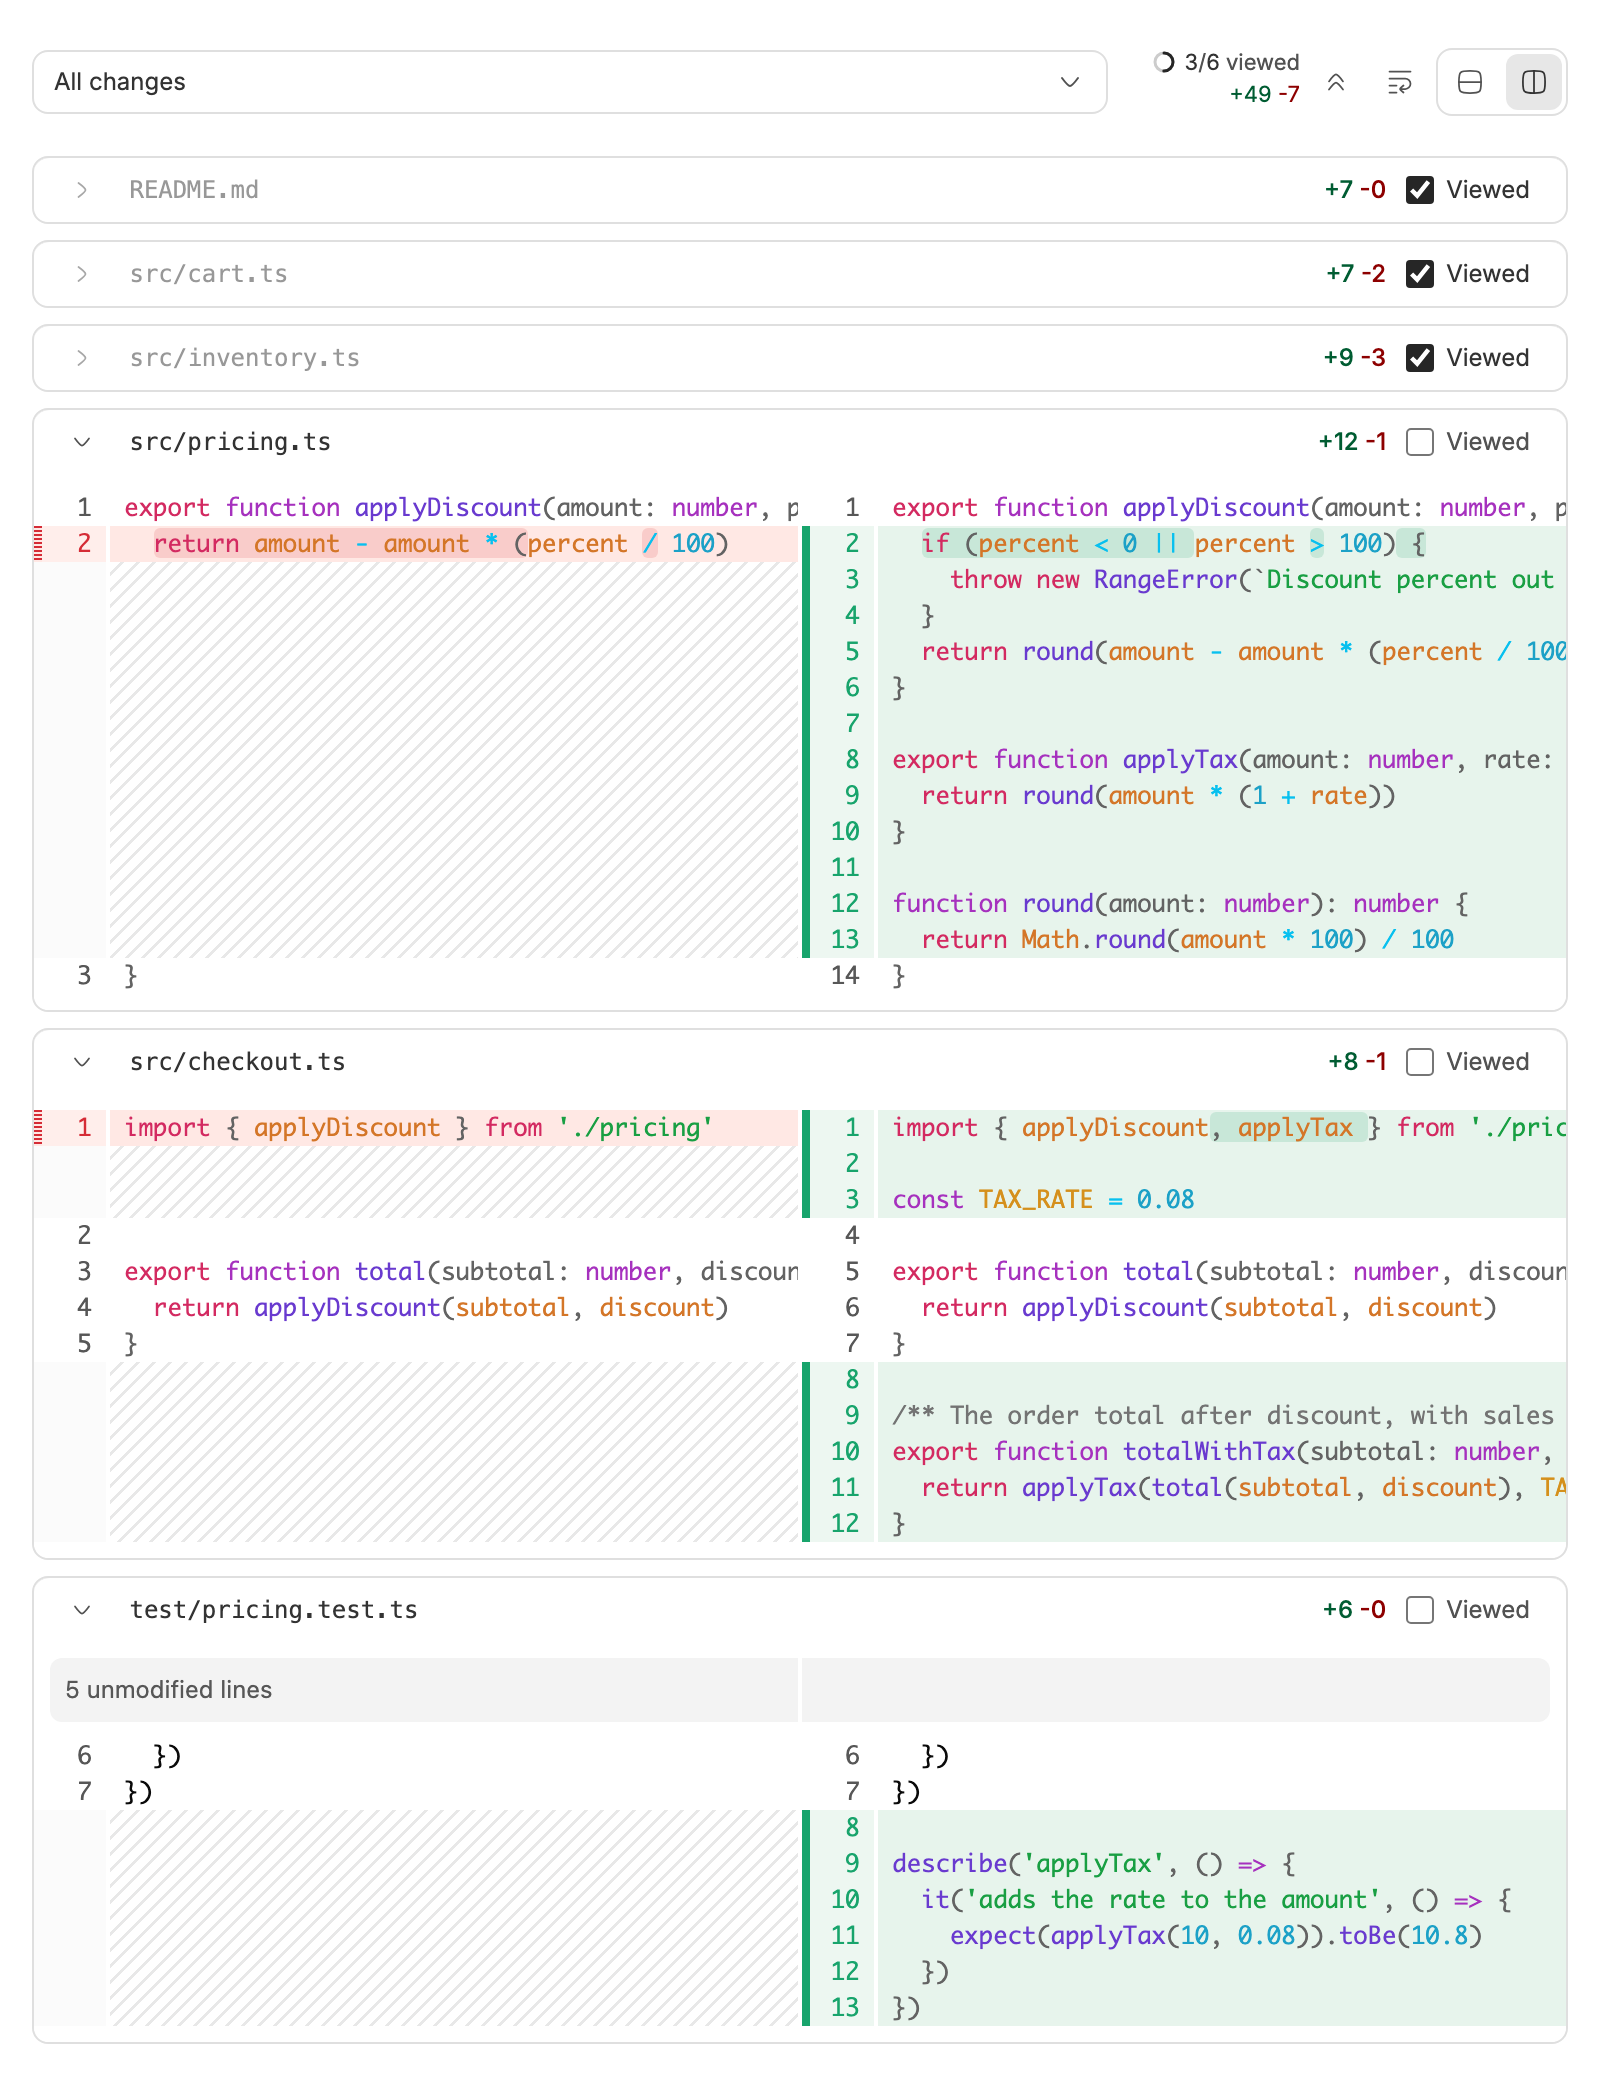
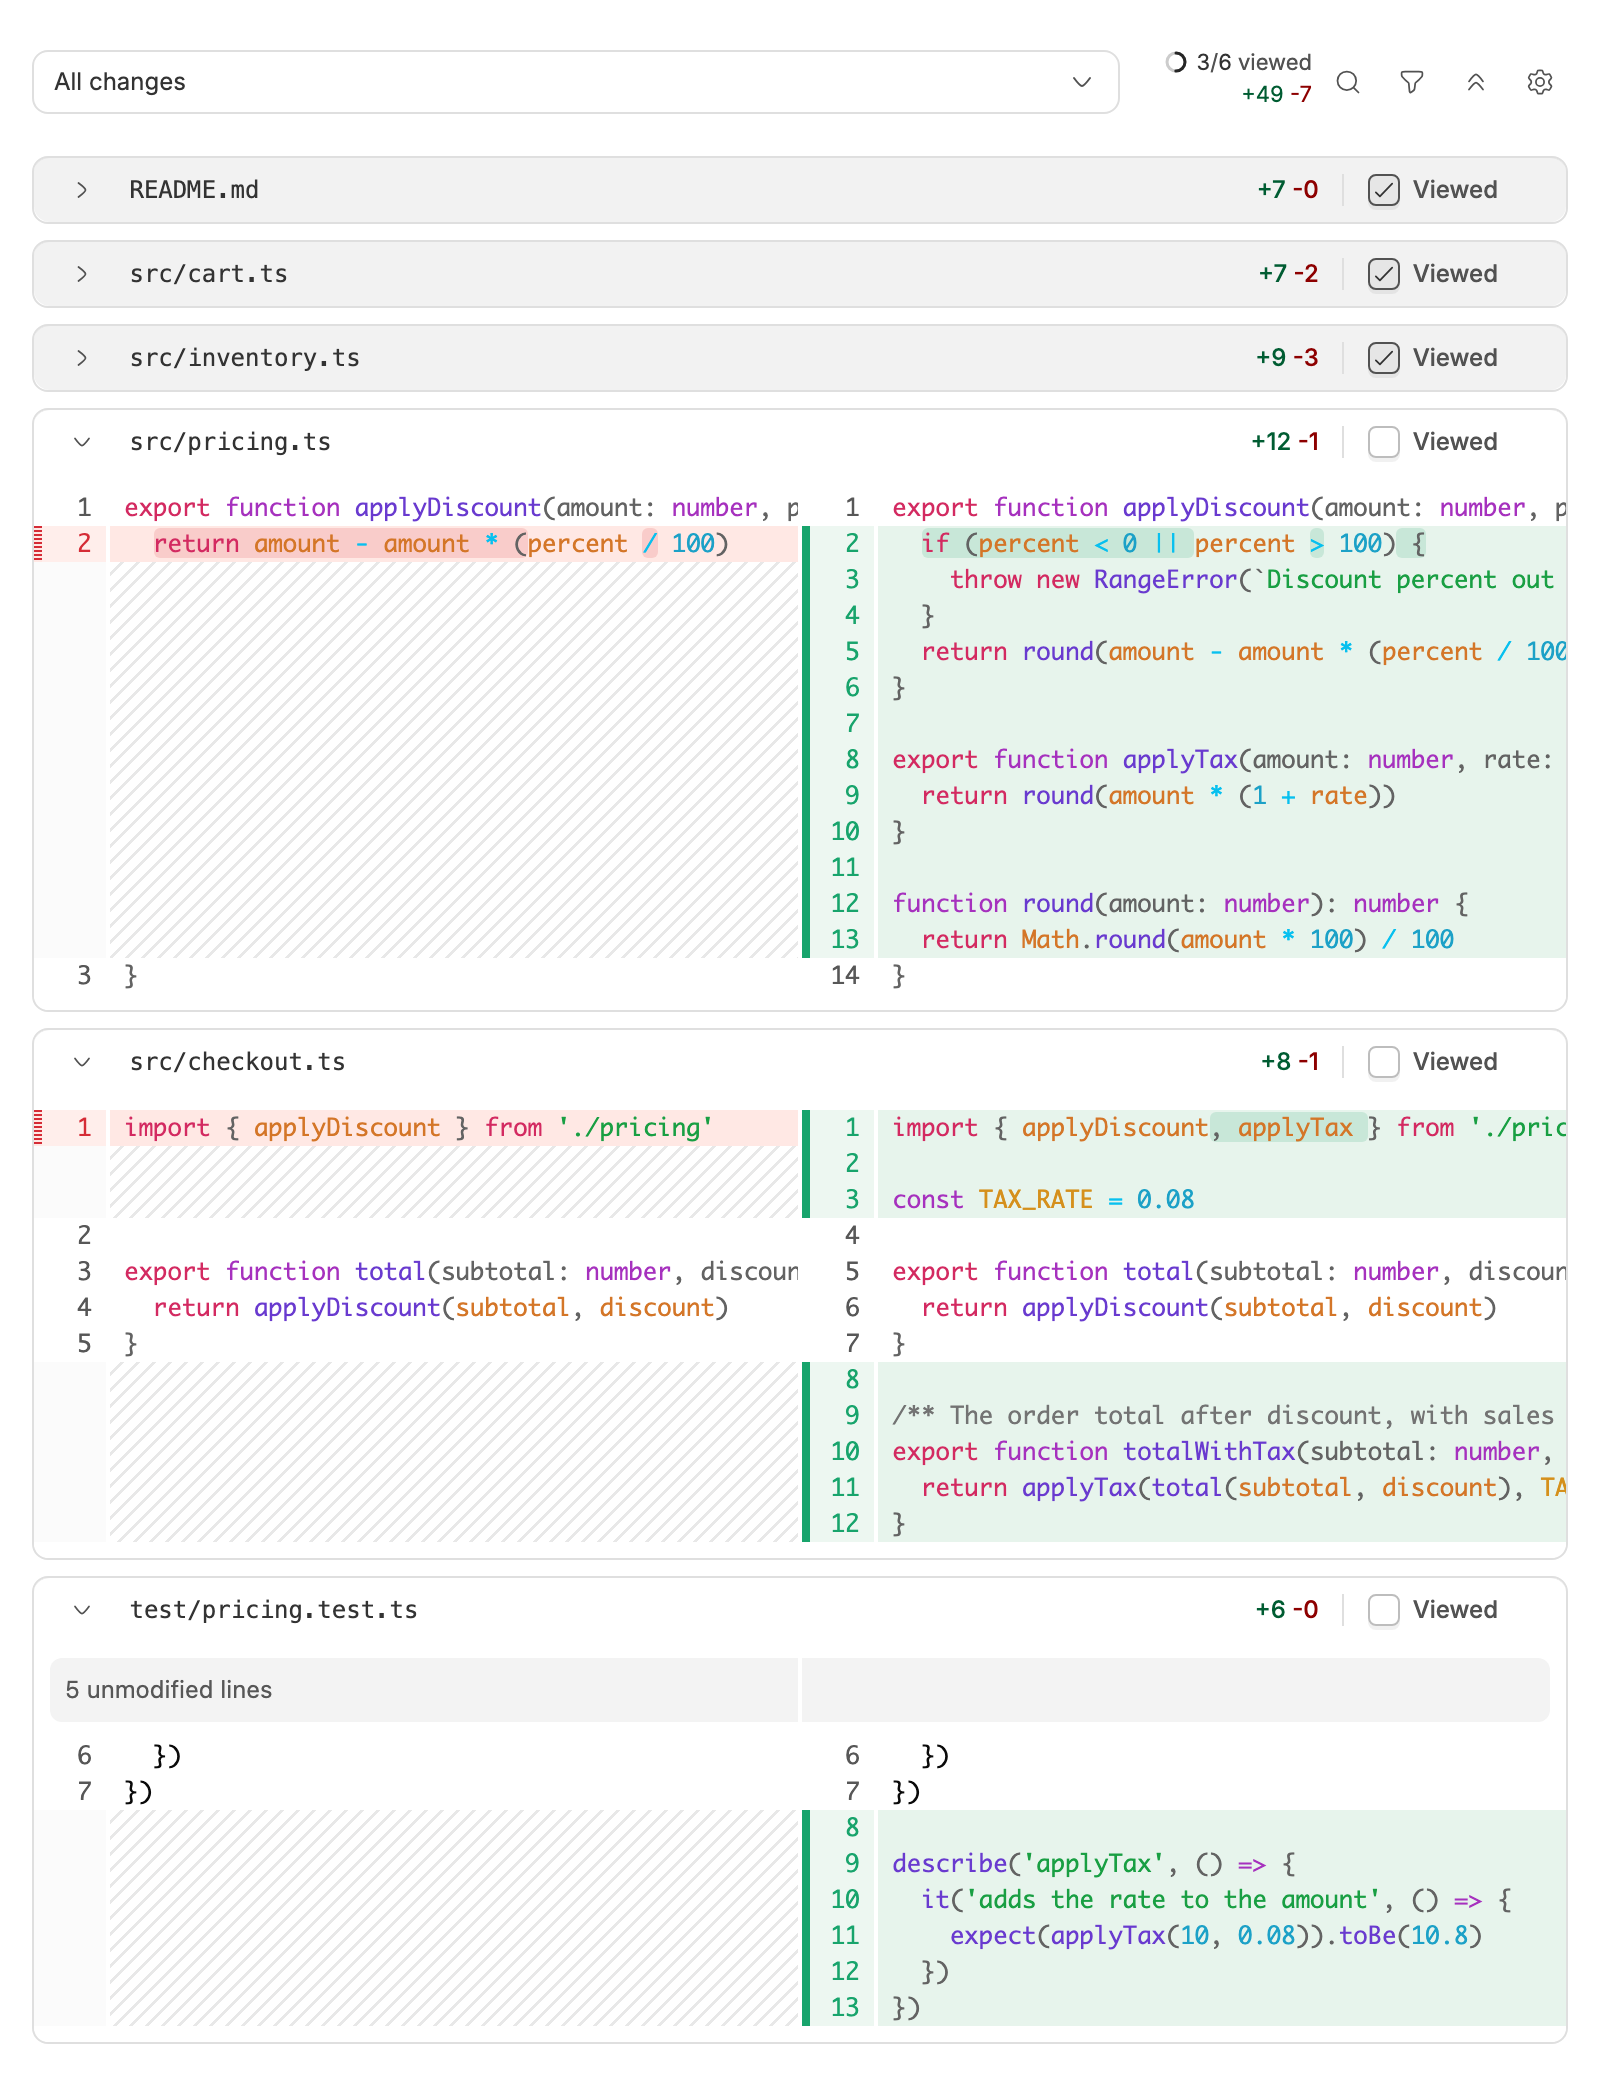
Update plugin entry: diff-viewed (#662)
Automated note from a Claude Code agent, posted on behalf of the marketplace maintainer.

Reviewed under the maintainer admission policy. Exact selected plugin sources install and load, required marketplace format passes, and no malware or author self-addition to New and Notable was found. Current-head CI verified green.

diff --git a/overview/diff-viewed.md b/overview/diff-viewed.md
@@ -1,15 +1,13 @@
 ## What you get
 
-- A **Viewed** checkbox on each file in bb's changes panel. Check a file and it collapses and dims, so the files still open are the ones you have not read.
-- A count in the toolbar, such as **3/6 viewed**, across every file in the range.
-- **Only unviewed** in the range dropdown, which hides the files you have viewed.
-- Marks that clear themselves when a file's diff changes, so a rebase or a new hunk opens the file again.
-- On a thread with an open pull request, the same mark as GitHub's Viewed box, both ways. A file with edits you have not pushed is marked **Local** and goes to GitHub once a push makes the diffs match.
+- A count in the changes panel toolbar, such as **3/6 viewed**, of the files you have checked with bb's own **Viewed** checkbox, across every file in the range.
+- On a thread with an open pull request, the same marks as GitHub's Viewed boxes, both ways. Check a file in bb and it is viewed on GitHub; mark it on GitHub and it is checked in bb.
+- A **Local** icon on a file whose diff differs from the pull request's, such as one with edits you have not pushed. Its mark goes to GitHub once a push makes the diffs match.
 
 ## How it works
 
-A mark is kept per thread on this machine, keyed on the file's path and its `+N -M` counts. GitHub sync uses your `gh` sign-in: one query when the panel opens or the window regains focus, and one call per mark you change.
+bb keeps the Viewed marks. This plugin reads them to count, and syncs them with GitHub using your `gh` sign-in: at most one query for the pull request's files when the panel opens, the window regains focus, or a checkbox changes, and one call for each mark that changed.
 
 ## Requirements
 
-bb 0.41 or later. GitHub sync needs `gh` signed in, and can be turned off with the **Sync with GitHub** setting.
+bb 0.47 or later. GitHub sync needs `gh` signed in, and can be turned off with the **Sync with GitHub** setting.
